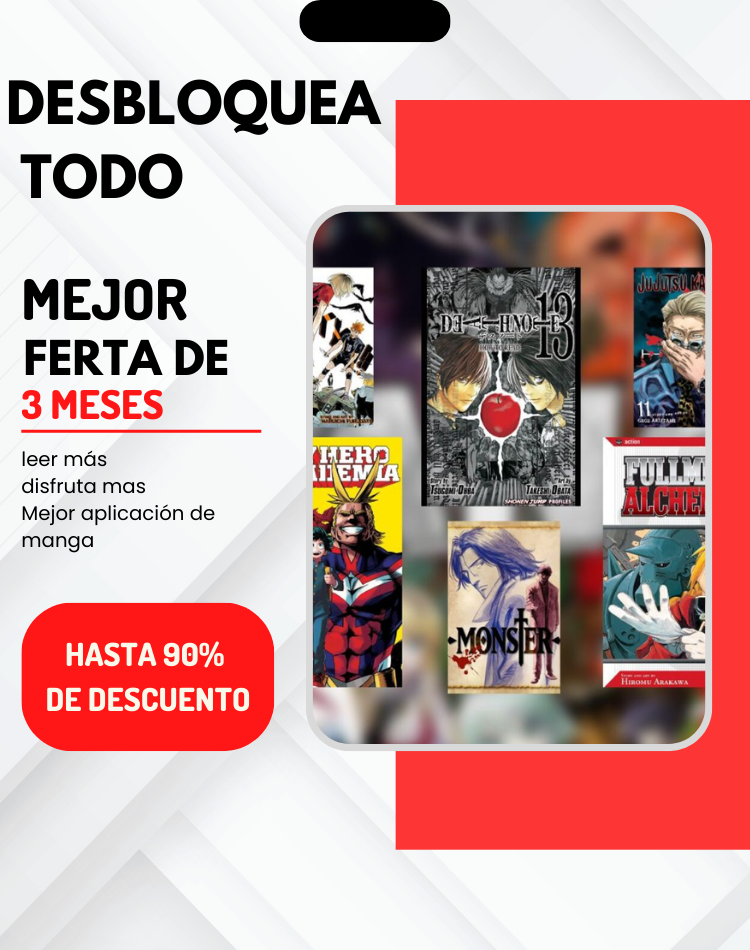
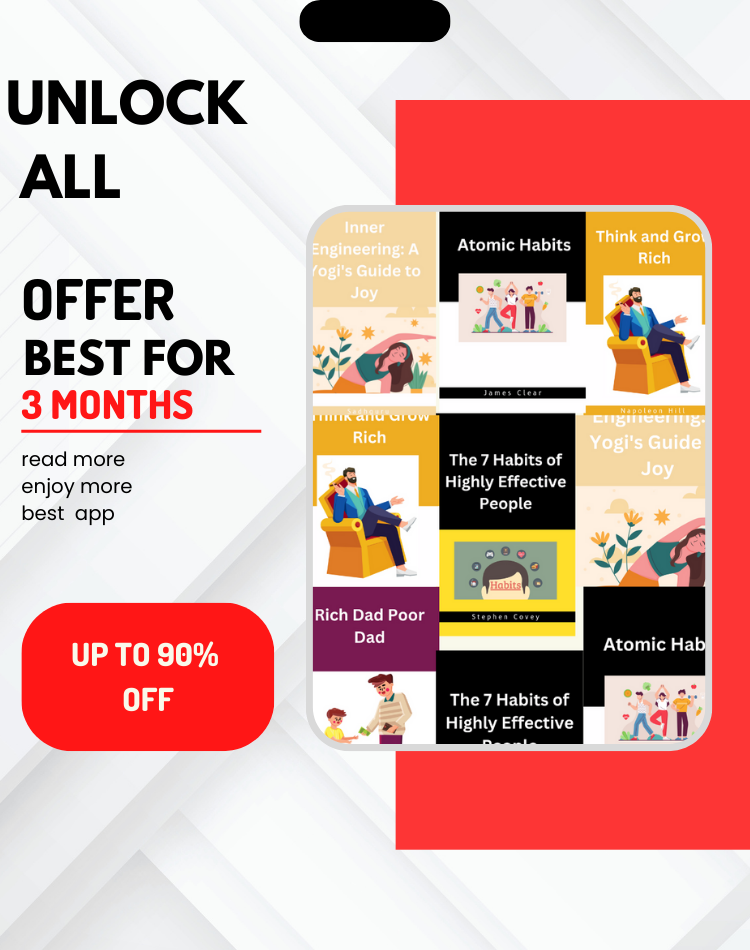
as

diff --git a/screens/Data.js b/screens/Data.js
@@ -1,68 +1,68 @@
 import { images } from '../constants';
 
 export const booksData = {
-    onepiece: {
+    innerengineering: {
         id: 1,
-        bookName: "One \n Piece",
-        bookCover: images.onepiece,
+        bookName: "Inner \n Engineering",
+        bookCover: images.innerengineering,
         rating: "4.5/5",
         language: "Español",
         episodeNo: 1155,
         genre: ["Romance", "Adventure", "Drama"],
         readed: "120,785",
-        description: "One Piece es una serie de manga japonesa escrita e ilustrada por Eiichiro Oda. Ha sido serializado en la revista de manga shōnen Weekly Shōnen Jump de Shueisha desde julio de 1997, con sus capítulos individuales compilados en 105 volúmenes de tankōbon a partir de marzo de 2023.",
+        description: "इनर इंजीनियरिंग: ए योगीज़ गाइड टू जॉय एक भारतीय योगी और रहस्यवादी जग्गी वासुदेव द्वारा लिखित 2016 की पुस्तक है। पुस्तक को नवंबर 2016 के लिए आध्यात्मिकता और स्वयं सहायता श्रेणी में द न्यूयॉर्क टाइम्स बेस्ट सेलर में शामिल किया गया था।",
         backgroundColor: "rgba(240,240,232,0.9)",
         navTintColor: "#000",
-        web:"One+Piece+"
+        web:"InnerEngineering"
     },
-    demonslayer: {
+    atomichabits: {
         id: 2,
-        bookName: "Demon \n Slayer",
-        bookCover: images.demonslayer,
+        bookName: "Atomic \n Habits",
+        bookCover: images.atomichabits,
         rating: "4.3/5",
         episodeNo: 289,
         genre: [
             "Adventure", "Drama"
         ],
         readed: "43,000",
-        description: "Demon Slayer: Kimetsu no Yaiba es una serie de manga japonesa escrita e ilustrada por Koyoharu Gotouge. Fue serializado en la revista de manga shōnen de Shueisha Weekly Shōnen Jump desde febrero de 2016 hasta mayo de 2020, con sus capítulos recopilados en 23 volúmenes de tankōbon.",  
-        web:"DemonsLayer+"
+        description: "साक्ष्य-आधारित रणनीतियों से भरपूर, एटॉमिक हैबिट्स आपको छोटे-छोटे बदलाव करना सिखाएगी जो आपकी आदतों को बदल देंगे और आश्चर्यजनक परिणाम देंगे।",  
+        web:"atomichabits"
     },
-    komisan: {
+    thinkandgrowrich: {
         id: 3,
-        bookName: "Komi-san \n wa",
-        bookCover: images.komisan,
+        bookName: "Think and \n Grow Rich",
+        bookCover: images.thinkandgrowrich,
         rating: "3.5/5",
         episodeNo: 382,
         genre: [
             "Drama", "Adventure", "Romance"
         ],
         readed: "83,876",
-        description: "Komi Can't Communicate es una serie de manga japonesa escrita e ilustrada por Tomohito Oda. Ha sido serializado en la revista de manga shōnen Weekly Shōnen Sunday de Shogakukan desde mayo de 2016, con sus capítulos recopilados en 29 volúmenes de tankōbon a partir de abril de 2023. La serie tiene licencia en Norteamérica por Viz Media",
+        description: "थिंक एंड ग्रो रिच नेपोलियन हिल द्वारा लिखित पुस्तक है जिसे 1937 में जारी किया गया था और इसे व्यक्तिगत विकास और आत्म-सुधार पुस्तक के रूप में प्रचारित किया गया था। उन्होंने बिजनेस मैग्नेट और बाद में परोपकारी एंड्रयू कार्नेगी के एक सुझाव से प्रेरित होने का दावा किया। हालाँकि इस बात का कोई सबूत नहीं है कि दोनों कभी मिले थे",
         backgroundColor: "rgba(119,77,143,0.9)",
-        web:"Komisan+"
+        web:"atomichabits"
     },
-    dragonballmultiverse: {
+    richdad: {
         id: 4,
-        bookName: "Dragon ball \n Multiverse",
-        bookCover: images.dragonballmultiverse,
+        bookName: "Rich Dad \n Poor Dad",
+        bookCover: images.richdad,
         rating: "3.4/5",
         language: "Español",
         episodeNo: 75,
         readed: "13k",
-        description: "Dragon Ball Multiverse (o DBM para abreviar) es una secuela hecha por fanáticos del Dragon Ball Manga y es un doujinshi en línea gratuito (cómic hecho por fanáticos en japonés).",  
-        web:"DragonballMultiverse+"
+        description: "रिच डैड पुअर डैड 1997 में रॉबर्ट टी. कियोसाकी और शेरोन लेचटर द्वारा लिखित पुस्तक है। यह वित्तीय साक्षरता, वित्तीय स्वतंत्रता और परिसंपत्तियों में निवेश, रियल एस्टेट निवेश, व्यवसाय शुरू करने और स्वामित्व के साथ-साथ किसी की वित्तीय बुद्धिमत्ता को बढ़ाकर धन निर्माण के महत्व की वकालत करता है।",  
+        web:"RichDadPoorDad"
     },
-    chainsawman: {
+    sevenhabits: {
         id: 5,
-        bookName: "Chain Saw\n Man",
-        bookCover: images.chainsawman,
+        bookName: "The 7 Habits \n of Highly Effective People",
+        bookCover: images.sevenhabits,
         rating: "3.2/5",
         language: "Español",
         episodeNo: 137,
         readed: "275k",
-        description: "Chainsaw Man sigue la historia de Denji, un joven empobrecido que hace un contrato que fusiona su cuerpo con el de un demonio parecido a un perro llamado Pochita.",
-        web:"chainsaw+"
+        description: "अत्यधिक प्रभावी लोगों की 7 आदतें सिद्ध व्यक्तिगत प्रभावशीलता ऑपरेटिंग सिस्टम है। प्रतिभागियों में बढ़ी हुई परिपक्वता, अधिक उत्पादकता और स्वयं को प्रबंधित करने की क्षमता विकसित होती है। वे लेजर जैसे फोकस और सावधानीपूर्वक योजना के साथ महत्वपूर्ण प्राथमिकताओं को क्रियान्वित करने की क्षमता लेकर आएंगे।",
+        web:"7habits"
     },
     jibakushounen: {
         id: 6,

diff --git a/screens/BookDetail.js b/screens/BookDetail.js
@@ -136,22 +136,22 @@ const BookDetail = ({ route, navigation }) => {
                     <View style={{ flex: 1, alignItems: 'center' }}>
                         <Text style={{ ...FONTS.h3, color: COLORS.white }}>{book.rating}</Text>
                         <AntDesign name="star" size={13} color="red" />
-                        <Text style={{ ...FONTS.body4, color: COLORS.white }}>Calificaciones</Text>
+                        <Text style={{ ...FONTS.body4, color: COLORS.white }}>Ratings</Text>
                     </View>
 
                     <LineDivider />
 
-                    {/* Pages */}
+                    {/* Pages
                     <View style={{ flex: 1, paddingHorizontal: SIZES.radius, alignItems: 'center' }}>
                         <Text style={{ ...FONTS.h3, color: COLORS.white }}>{book.episodeNo}</Text>
                         <Text style={{ ...FONTS.body4, color: COLORS.white }}>Número de episodios</Text>
                     </View>
-
+ */}
                     <LineDivider />
 
                     {/* Language */}
                     <View style={{ flex: 1, alignItems: 'center' }}>
-                        <Text style={{ ...FONTS.h3, color: COLORS.white }}>Español</Text>
+                        <Text style={{ ...FONTS.h3, color: COLORS.white }}>Hindi</Text>
                         <Text style={{ ...FONTS.body4, color: COLORS.white }}>Language</Text>
                     </View>
                 </View>
@@ -201,7 +201,7 @@ const BookDetail = ({ route, navigation }) => {
                         { useNativeDriver: false }
                     )}
                 >
-                    <Text style={{ ...FONTS.h2, color: COLORS.white, marginBottom: SIZES.padding }}>Descripción</Text>
+                    <Text style={{ ...FONTS.h2, color: COLORS.white, marginBottom: SIZES.padding }}>Description</Text>
                     <Text style={{ ...FONTS.body2, color: COLORS.lightGray }}>{book.description}</Text>
                 </ScrollView>
             </View>
@@ -225,12 +225,12 @@ const BookDetail = ({ route, navigation }) => {
                         alignItems: 'center',
                         justifyContent: 'center'
                     }}
-                    onPress={() => navigation.navigate("Buttons",{
+                    onPress={() => navigation.navigate("Pdfs",{
 
                     bookaa: book
                 })}
                 >
-                    <Text style={{ ...FONTS.h3, color: COLORS.white }}>Leer</Text>
+                    <Text style={{ ...FONTS.h3, color: COLORS.white }}>Read</Text>
                 </TouchableOpacity>
             </View>
         )

diff --git a/screens/Home.js b/screens/Home.js
@@ -27,7 +27,10 @@ const Home = ({ navigation }) => {
     const [userstatepro, setUserstatepro] = useState(false);
     const tw = useTailwind();
 
-    const { onepiece, demonslayer, komisan, dragonballmultiverse,
+    const { 
+        innerengineering,atomichabits,thinkandgrowrich,richdad,sevenhabits,
+        
+        onepiece, demonslayer, komisan, dragonballmultiverse,
          chainsawman,jibakushounen,bluelock,bananafish,
          recordofragnarok,goodnightpunpun,talesofdemonsandgods,
          jojosbizarreadventure, spyxfamily,Berserk, 
@@ -51,31 +54,28 @@ const Home = ({ navigation }) => {
 
     
    
-
+   
     const myBooksData = [
         {
-            ...onepiece,
+            ...atomichabits,
         },
         
         {
-            ...demonslayer,           
-            completion: "23%",
-            lastRead: "10d 5h",
+            ...thinkandgrowrich,           
+           
         },
         {
-            ...komisan,
+            ...richdad,
 
         },
         {
-            ...chainsawman,
+            ...sevenhabits,
 
         },
         {
-            ...dragonballmultiverse,
+            ...innerengineering,
         },
-        {   
-            ...jibakushounen,
-        }
+        
     ]
 
     const myBooksData2 = [
@@ -212,7 +212,7 @@ const Home = ({ navigation }) => {
             id: 1,
             categoryName: "Best Seller",
             books: [
-                onepiece, demonslayer, komisan
+                innerengineering
             ]
         },
        
@@ -495,13 +495,13 @@ const Home = ({ navigation }) => {
              
             </View>
 
-            {/* Body Section */}
+            
             <ScrollView style={{ marginTop: SIZES.radius }}>
-                {/* Books Section */}
+                
                 <View>
-                    {renderMyBookSection(myBooks, "Lo último gratis")}
+                    {renderMyBookSection(myBooks, "Read Now")}
                 </View>
-
+{/* Books Section 
                 <View>
                     {renderMyBookSection(myBooks2,"Premium - Aventura")}
                 </View>
@@ -521,7 +521,7 @@ const Home = ({ navigation }) => {
                     {renderMyBookSection(myBooks7,"Premium - Love")}
                 </View>
                 
-                
+            */}
 
                 {/* Categories Section */}
                 <View style={{ marginTop: SIZES.padding }}>

diff --git a/data.js b/data.js
@@ -1,38 +1,38 @@
 const data = [
     {
         id: 1,
-        title: "Message Instantly ☑",
+        title: "Read all Books☑",
         description: "Unlock to see who has already swiped right",
         image: require("./assets/img6.png"),
     },
     {
         id: 2,
-        title: "Get Users Number ☑",
+        title: "Get Users Stats ☑",
         description: "Get their Mobile Number",
         image: require("./assets/img0.png"),
     },
 
     {
         id: 3,
-        title: "See Who Likes You ☑",
+        title: "See which you like ☑",
         description: "Unlock to see who has already swiped right",
         image: require("./assets/img11.png"),
     },
     {
         id: 5,
-        title: "Get Matched Instantly ☑",
+        title: "Read Instantly ☑",
         description: "Location: Germany",
         image: require("./assets/img7.png"),
     },
     {
         id: 6,
-        title: "See 3 Times More Profiles ☑",
+        title: "See 3 Times More Books ☑",
         description: "Location: Germany",
         image: require("./assets/img12.png"),
     },
     {
         id: 7,
-        title: "Rewind Swiped User ☑",
+        title: "Rewind Unlimited Books ☑",
         description: "Location: Germany",
         image: require("./assets/img15.png"),
     },

diff --git a/constants/images.js b/constants/images.js
@@ -38,14 +38,23 @@ export const drstone = require("../assets/images/Row6/drstone.jpg");
 export const kaguyasama = require("../assets/images/Row6/kaguyasama.jpg");
 export const lavidadespues = require("../assets/images/Row6/LaVidaDespuésdelaMuerte.jpg");
 export const Tsukigamichibiku = require("../assets/images/Row6/Tsukigamichibiku.jpg");
-
-
+export const sevenhabits = require("../assets/images/Row1/sevenhabits.png");
+export const richdad = require("../assets/images/Row1/richdad.png");
+export const thinkandgrowrich = require("../assets/images/Row1/thinkandgrowrich.png");
+export const atomichabits = require("../assets/images/Row1/atomichabits.png");
+export const innerengineering = require("../assets/images/Row1/innerengineering.png");
 
 
 
 
 
 export default {
+
+    innerengineering,atomichabits,thinkandgrowrich,richdad,sevenhabits,
+
+
+
+
     bleach,Dandadan,drstone,kaguyasama,lavidadespues,Tsukigamichibiku,    
     otherWordsForHome,theMetropolist,theTinyDragon,underland, onepiece,demonslayer,dragonballmultiverse,komisan,    chainsawman,    jibakushounen,    bluelock,
     bananafish,

diff --git a/screens/Pdfs.js b/screens/Pdfs.js
@@ -41,18 +41,16 @@ expo start --dev-client
 export default function Pdfs({ route, navigation }) {
  
   const [bookweb, setBookweb] = React.useState("");
-  const [Chapterindexo, setChapterindexo] = React.useState("");
+  
   const [pdfSource, setPdfSource] = useState(null); // Initialize pdfSource with null
   const pdfRef = useRef();
-
+  
 React.useEffect(() => {
-  let { book,chapterIndex } = route.params;
+  let { bookaa} = route.params;
 
-  console.log(chapterIndex)
-  console.log(chapterIndex)
-  setChapterindexo(chapterIndex)
-  console.log(book.web)
-  setBookweb(book.web)
+
+  console.log(bookaa.web)
+  setBookweb(bookaa.web)
   
 }, [])
 
@@ -61,7 +59,7 @@ React.useEffect(() => {
   console.log(bookweb)
   useEffect(() => {
     if(bookweb) {
-      const onlineSource = { uri: `https://mangaspanish.s3.ap-south-1.amazonaws.com/${bookweb}(${Chapterindexo}).pdf`, cache: true };
+      const onlineSource = { uri: `https://hindibooks.s3.ap-south-1.amazonaws.com/${bookweb}.pdf`, cache: true };
       setPdfSource(onlineSource);
      }
   }, [bookweb]);

diff --git a/screens/Offer.js b/screens/Offer.js
@@ -151,7 +151,7 @@ const Offer = () => {
                                         styles.buttonText,
                                     ]}
                                 >   
-                                Desbloquee todas nuestras funciones para tener el control total de su experiencia</Text>
+                                Unlock all our features to be in full control of your experience</Text>
                                 <View style={tw("p-1")}></View>
                                 <TouchableOpacity
                                     style={[tw("rounded-2xl w-36 h-14  bg-white"),
@@ -160,7 +160,7 @@ const Offer = () => {
 
                                 >
                                     <Text style={tw("text-center text-black text-lg")}>
-                                        Obtener {"\n"} ahora 
+                                    Get {"\n"} now
                                     </Text>
                                 </TouchableOpacity>
                                

diff --git a/Premium/Premiumoffer.js b/Premium/Premiumoffer.js
@@ -98,7 +98,7 @@ const Premiumoffer = () => {
 
                     </View>
                     <Text style={tw("text-center font-semibold")}>
-                            Esta es una suscripción recurrente que puede cancelar {"\n"}en cualquier momento </Text>
+                    This is a recurring subscription that you can cancel {"\n"}at any time </Text>
                     <View style={tw("p-3 text-center")}></View>
 
 

diff --git a/screens/Premium.js b/screens/Premium.js
@@ -90,7 +90,7 @@ const Premium = () => {
 
                 <View style={tw("items-center pt-2")}>
                     <Text style={tw("text-center text-3xl font-semibold text-black")}>
-                    Dsbloquea Todo
+                    Unlock Everything
                     </Text>
 
                 </View>

diff --git a/constants/theme.js b/constants/theme.js
@@ -21,6 +21,7 @@ export const COLORS = {
     lightBlue: "#424BAF",
     darkGreen: "#213432",
     lightGreen: "#31Ad66",
+    lightwhite:'#FEF8F0',
 
 };
 
